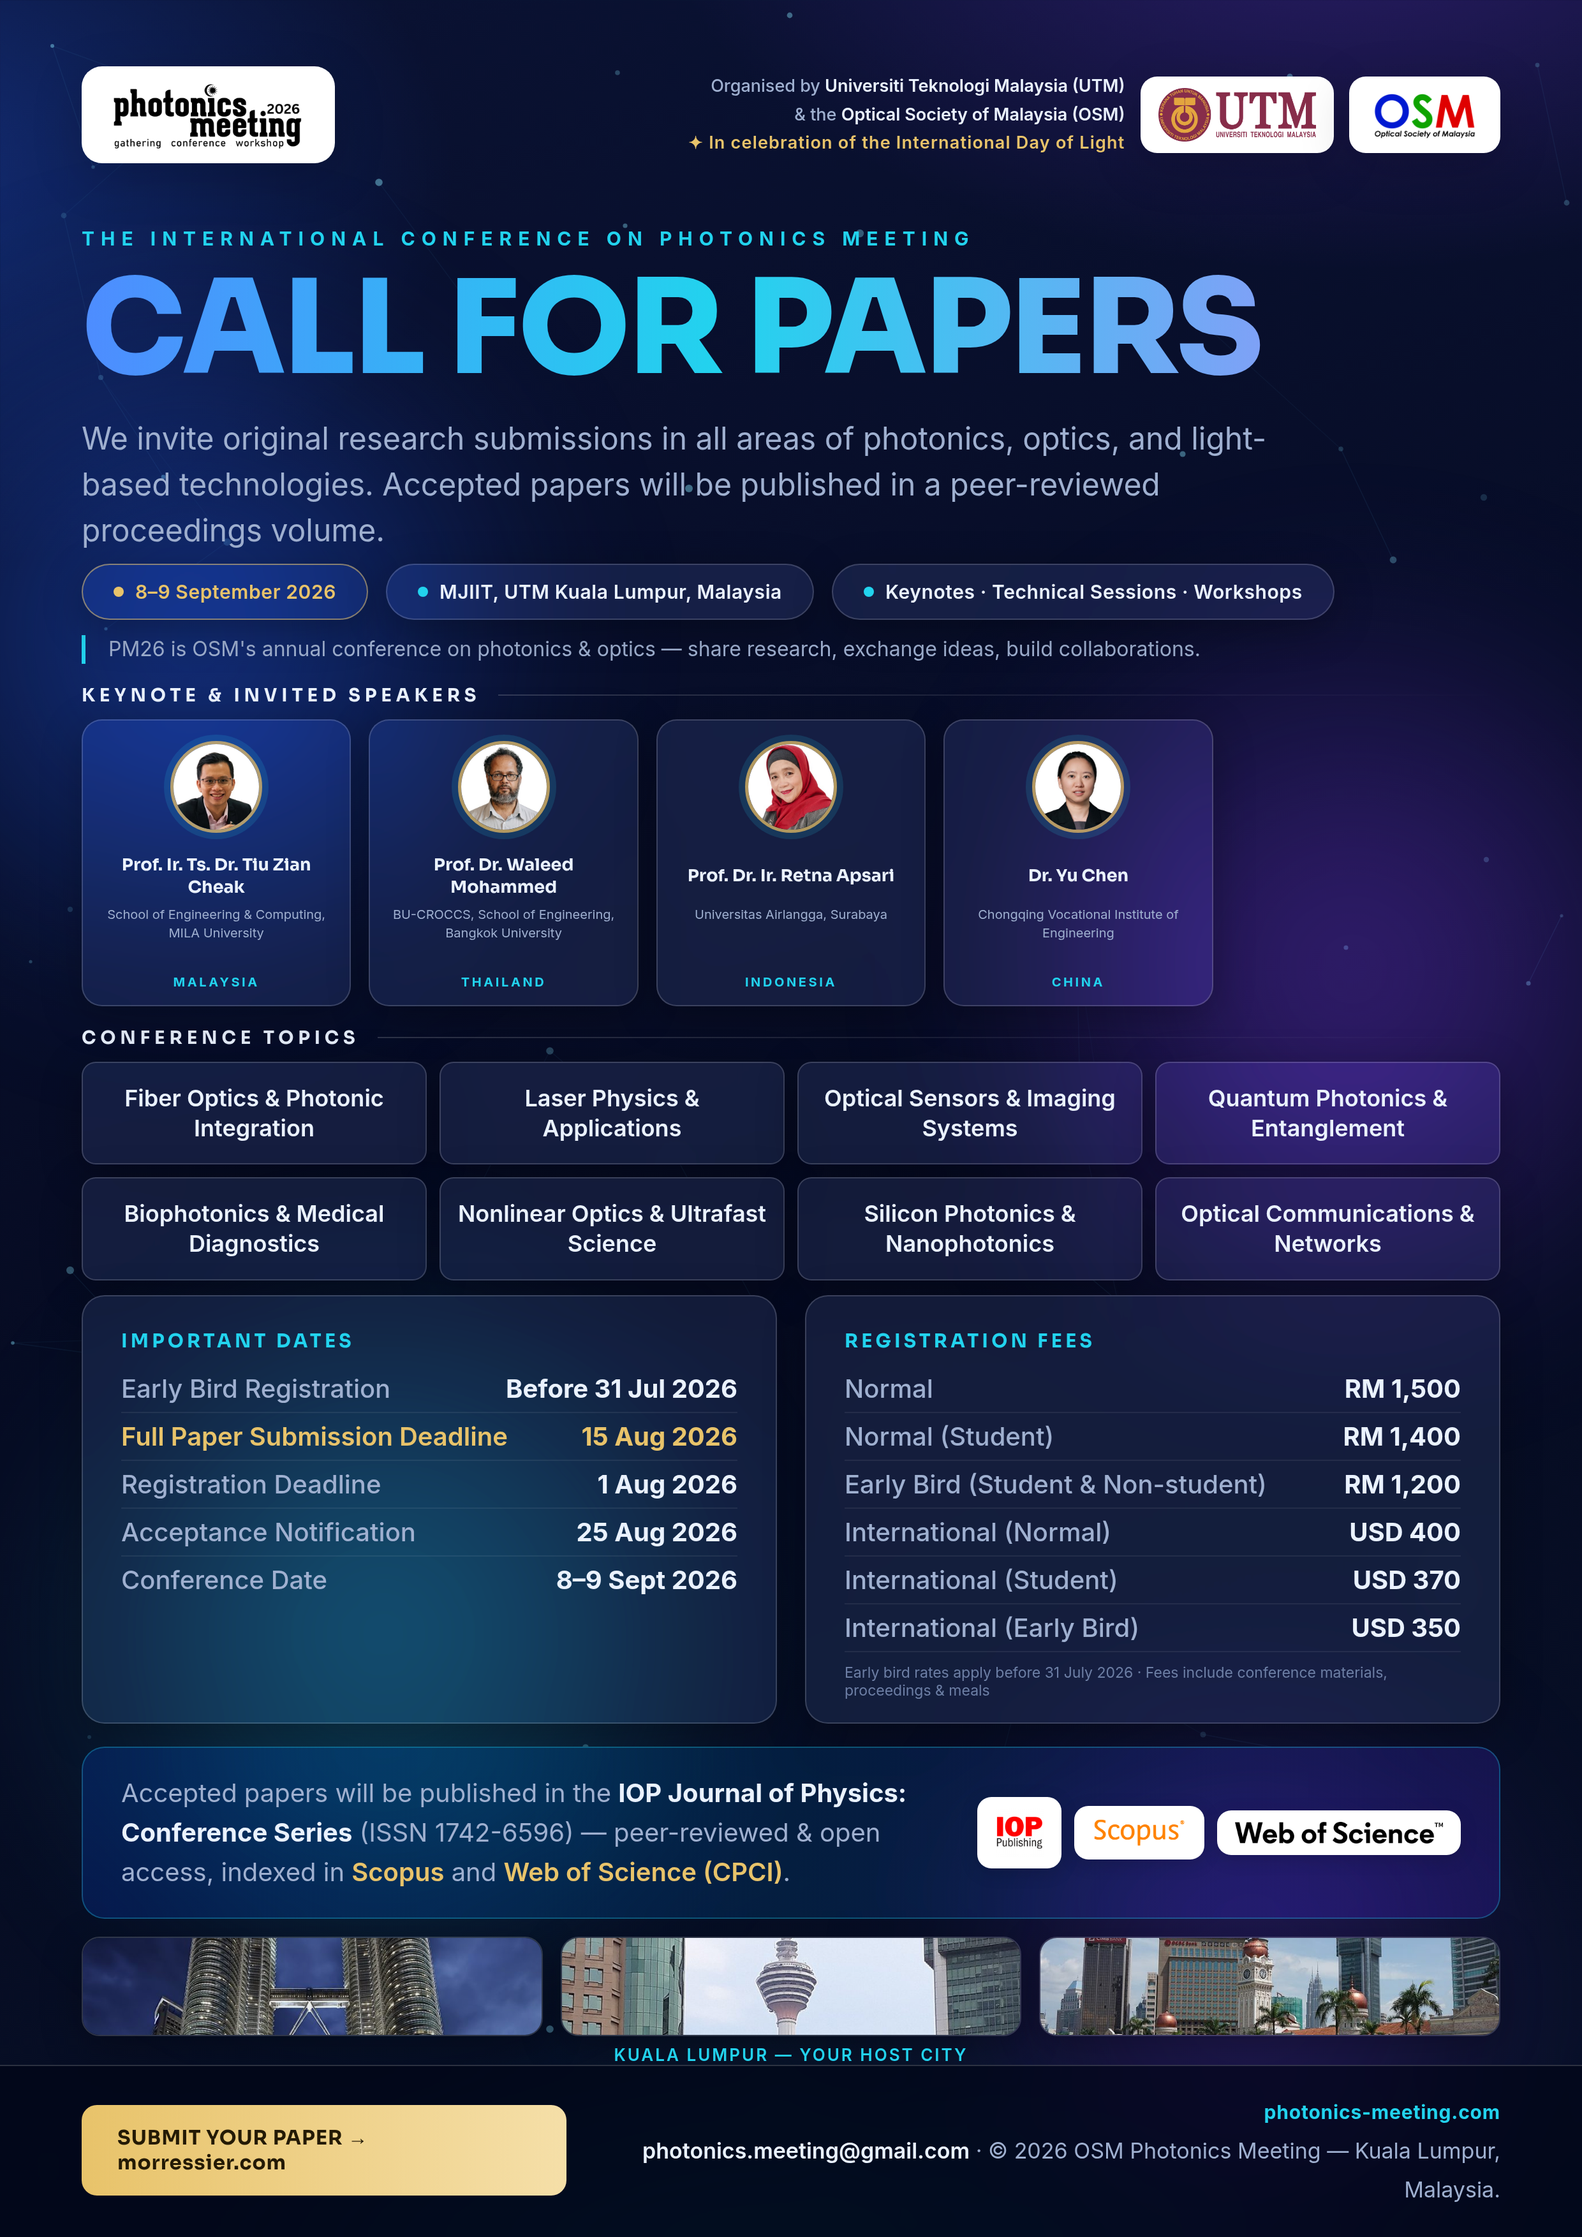
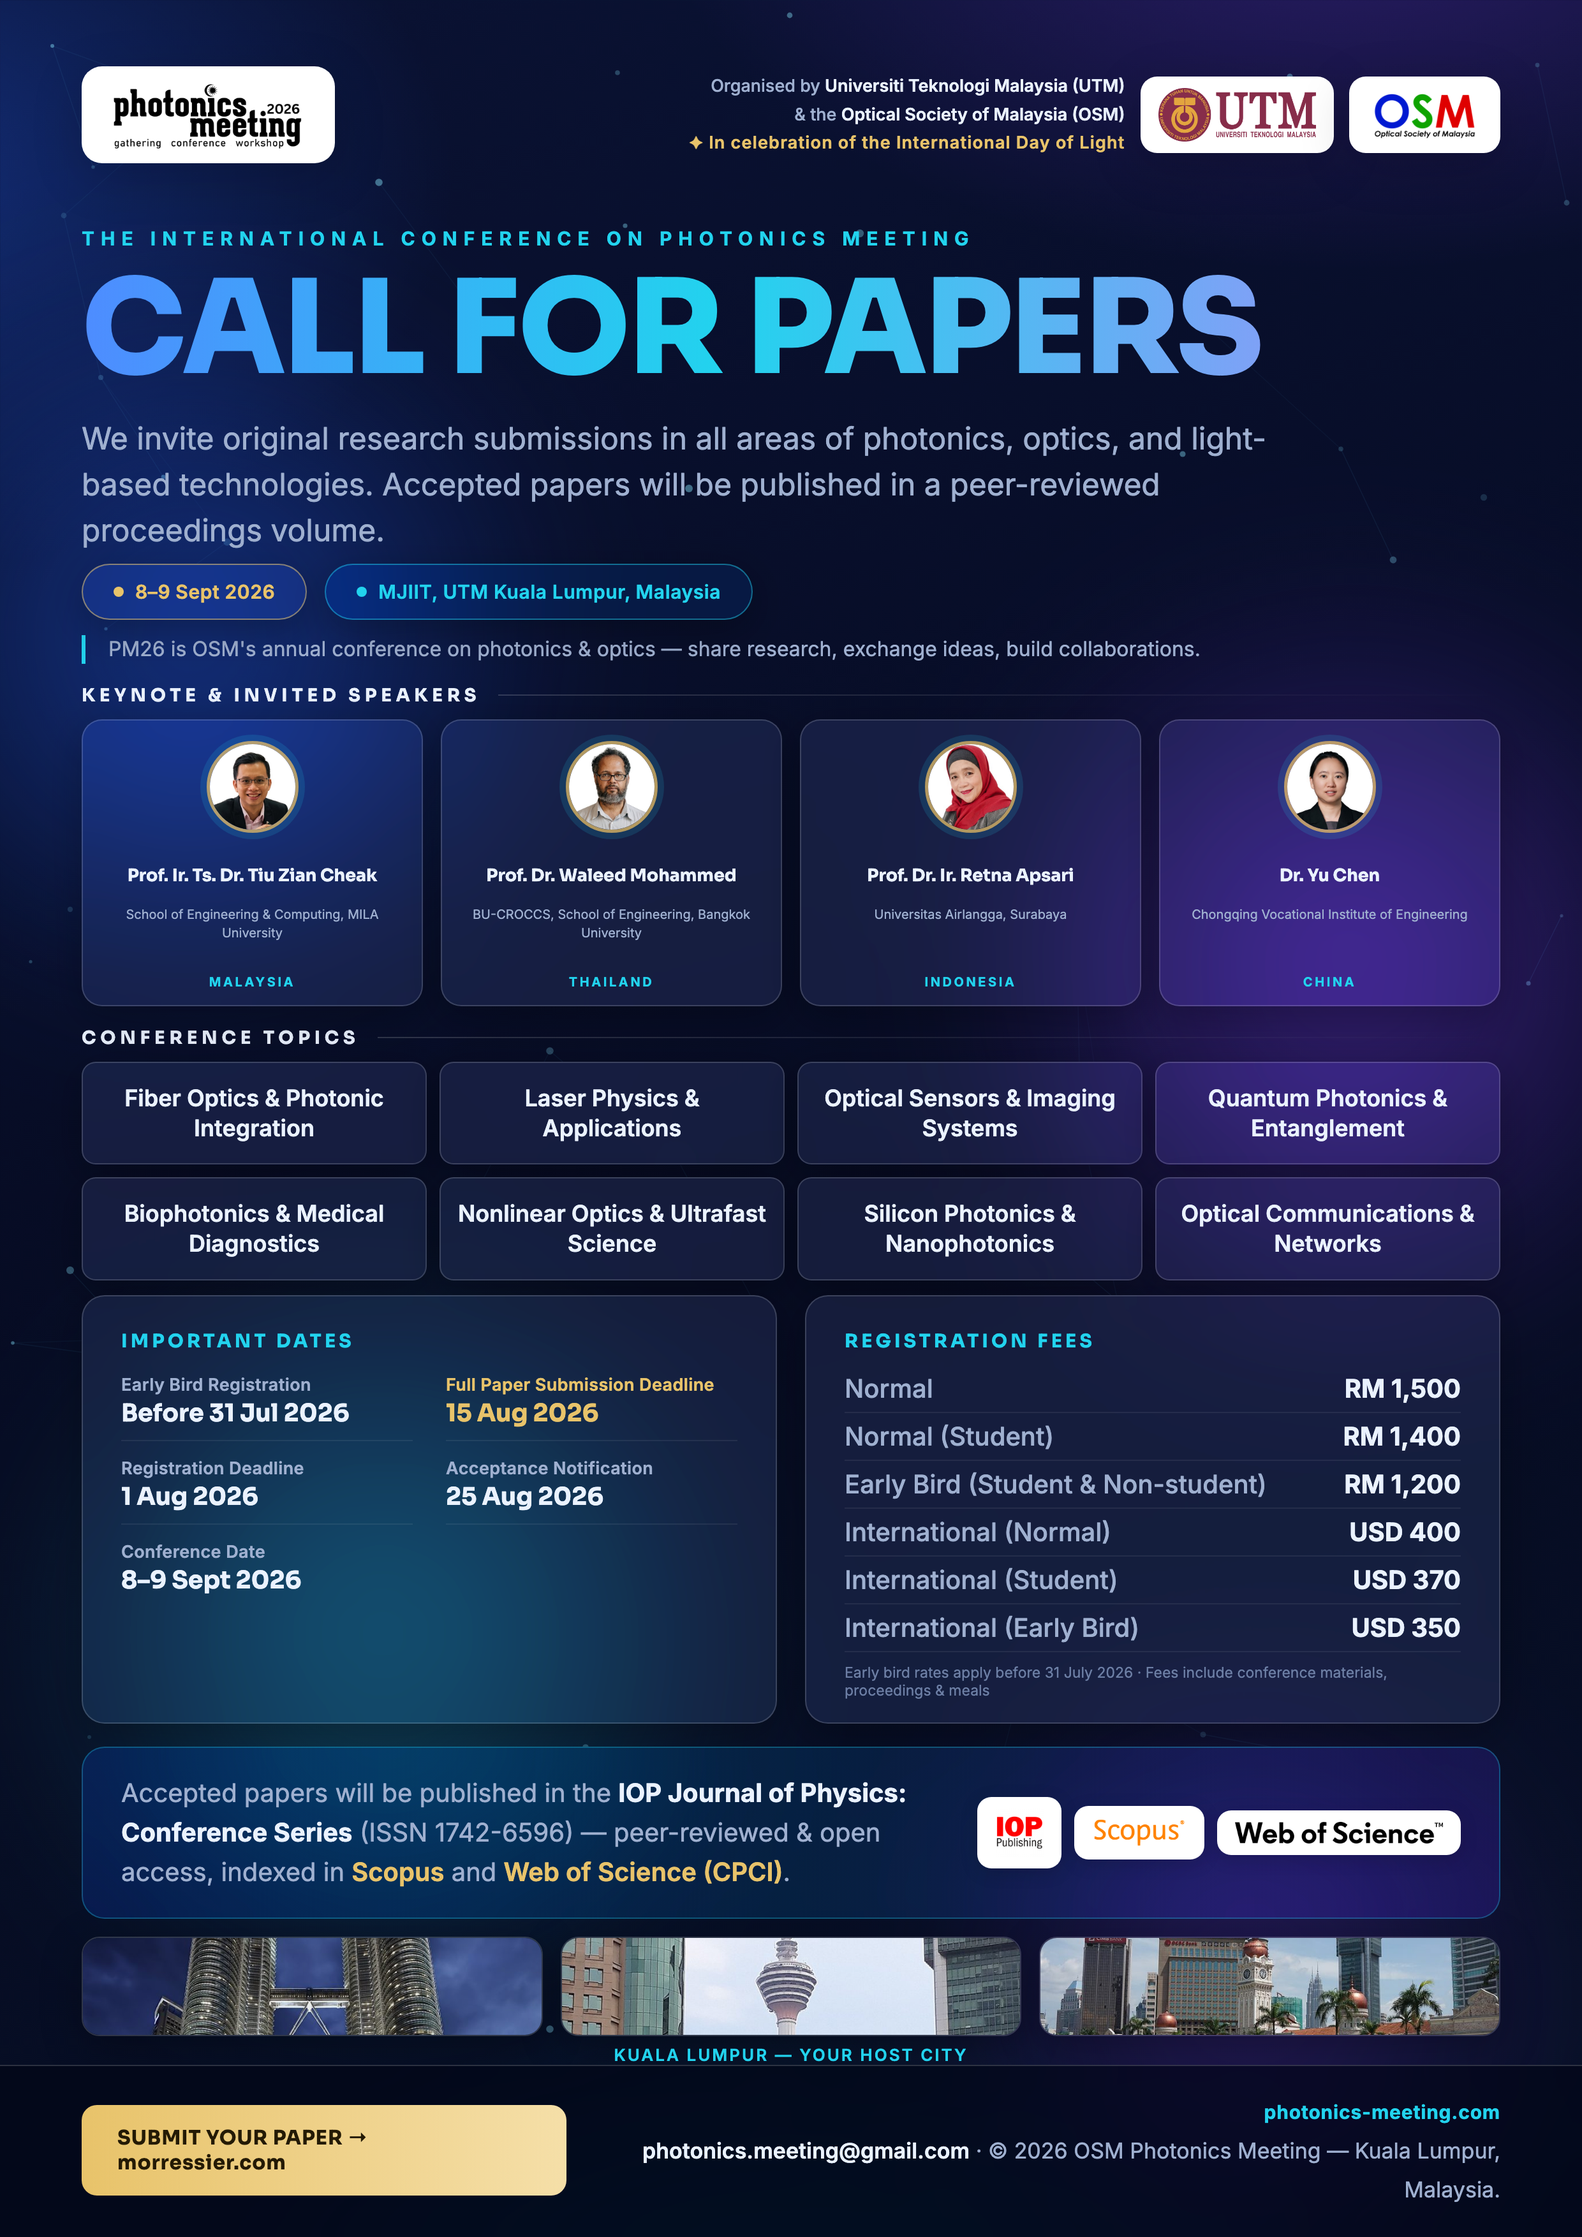
Poster: finish the compact-header + date-grid design (continues opencode WIP)
Completes the mid-thought edits started in opencode:
- Fix syntax error (stray leading space) on the date_rows line
- IMPORTANT DATES panel: 2-column date-grid, milestone label over bold
  date (mirrors the website's Key Deadlines cards); halves panel height
  to keep A4 fit with the enlarged fonts + KL city strip
- Pills finished: compact gold date pill + new cyan .pill.hot venue pill
  (per-theme hot_edge/hot_bg tokens); third pill removed as intended
- Speaker grid now data-driven (repeat(len(speakers),1fr)) — fixes the
  empty 5th column after the speaker list changed to 4 on the website

Changed region(s): [[0.0931, 0.3107, 0.9625, 0.4661], [0.0621, 0.5904, 0.4657, 0.7147], [0.1552, 0.2486, 0.8383, 0.2796]]

diff --git a/poster/pm26-cfp-poster-bright.html b/poster/pm26-cfp-poster-bright.html
@@ -38,6 +38,7 @@
     border-radius:999px; padding:12px 24px; font-size:15px; font-weight:600; letter-spacing:.3px;
     white-space:nowrap; box-shadow:0 8px 32px rgba(10,18,51,.12); }
   .pill.gold { border-color:rgba(168,120,24,.45); color:var(--gold); background:rgba(232,195,106,.14); }
+  .pill.hot { border-color:rgba(8,145,178,.40); color:var(--cyan); background:rgba(8,145,178,.07); }
   .dot { width:8px; height:8px; border-radius:50%; background:var(--cyan); }
   .pill.gold .dot { background:var(--gold); }
 
@@ -54,7 +55,7 @@
   .slab::after { content:''; flex:1; height:1px; background:linear-gradient(90deg,var(--edge),transparent); }
   .slab b { color:var(--ink); font-weight:700; }
 
-  .sps { display:grid; grid-template-columns:repeat(5,1fr); gap:14px; }
+  .sps { display:grid; grid-template-columns:repeat(4,1fr); gap:14px; }
   .sp { background:var(--card); border:1px solid var(--edge); border-radius:16px; padding:16px 10px 12px;
     text-align:center; box-shadow:0 8px 32px rgba(10,18,51,.12); }
   .sp img { width:72px; height:72px; border-radius:50%; object-fit:cover; object-position:top;
@@ -77,6 +78,10 @@
   .row { display:flex; justify-content:space-between; align-items:baseline; gap:12px;
     padding:6px 0; border-bottom:1px solid rgba(10,18,51,.08); font-size:20px; }
   .row:last-child { border-bottom:none; }
+  .date-grid { display:grid; grid-template-columns:1fr 1fr; gap:6px 26px; }
+  .date-grid .row { flex-direction:column; align-items:flex-start; gap:2px; padding:7px 0 9px; }
+  .date-grid .row-l { font-size:13.5px; font-weight:600; letter-spacing:.2px; }
+  .date-grid .row-r { font-family:'Sora'; font-size:19px; }
   .row-l { color:var(--dim); font-weight:500; }
   .row-r { font-weight:700; white-space:nowrap; }
   .row.hot .row-l, .row.hot .row-r { color:var(--gold); }
@@ -123,9 +128,8 @@
   <div class="sub">We invite original research submissions in all areas of photonics, optics, and light-based technologies. Accepted papers will be published in a peer-reviewed proceedings volume.</div>
 
   <div class="pills">
-    <div class="pill gold"><span class="dot"></span>8–9 September 2026</div>
-    <div class="pill"><span class="dot"></span>MJIIT, UTM Kuala Lumpur, Malaysia</div>
-    <div class="pill"><span class="dot"></span>Keynotes · Technical Sessions · Workshops</div>
+    <div class="pill gold"><span class="dot"></span>8–9 Sept 2026</div>
+    <div class="pill hot"><span class="dot"></span>MJIIT, UTM Kuala Lumpur, Malaysia</div>
   </div>
 
   <div class="about">PM26 is OSM&#x27;s annual conference on photonics &amp; optics — share research, exchange ideas, build collaborations.</div>
@@ -164,7 +168,7 @@
   <div class="cols">
     <div class="panel">
       <h3>IMPORTANT DATES</h3>
-      <div class="row"><span class="row-l">Early Bird Registration</span><span class="row-r">Before 31 Jul 2026</span></div><div class="row hot"><span class="row-l">Full Paper Submission Deadline</span><span class="row-r">15 Aug 2026</span></div><div class="row"><span class="row-l">Registration Deadline</span><span class="row-r">1 Aug 2026</span></div><div class="row"><span class="row-l">Acceptance Notification</span><span class="row-r">25 Aug 2026</span></div><div class="row"><span class="row-l">Conference Date</span><span class="row-r">8–9 Sept 2026</span></div>
+      <div class="date-grid"><div class="row"><span class="row-l">Early Bird Registration</span><span class="row-r">Before 31 Jul 2026</span></div><div class="row hot"><span class="row-l">Full Paper Submission Deadline</span><span class="row-r">15 Aug 2026</span></div><div class="row"><span class="row-l">Registration Deadline</span><span class="row-r">1 Aug 2026</span></div><div class="row"><span class="row-l">Acceptance Notification</span><span class="row-r">25 Aug 2026</span></div><div class="row"><span class="row-l">Conference Date</span><span class="row-r">8–9 Sept 2026</span></div></div>
     </div>
     <div class="panel">
       <h3>REGISTRATION FEES</h3>

diff --git a/poster/pm26-cfp-poster.html b/poster/pm26-cfp-poster.html
@@ -38,6 +38,7 @@
     border-radius:999px; padding:12px 24px; font-size:15px; font-weight:600; letter-spacing:.3px;
     white-space:nowrap; box-shadow:0 8px 32px rgba(0,0,0,.28); }
   .pill.gold { border-color:rgba(232,195,106,.55); color:var(--gold); background:rgba(232,195,106,.07); }
+  .pill.hot { border-color:rgba(34,211,238,.45); color:var(--cyan); background:rgba(34,211,238,.06); }
   .dot { width:8px; height:8px; border-radius:50%; background:var(--cyan); }
   .pill.gold .dot { background:var(--gold); }
 
@@ -54,7 +55,7 @@
   .slab::after { content:''; flex:1; height:1px; background:linear-gradient(90deg,var(--edge),transparent); }
   .slab b { color:var(--ink); font-weight:700; }
 
-  .sps { display:grid; grid-template-columns:repeat(5,1fr); gap:14px; }
+  .sps { display:grid; grid-template-columns:repeat(4,1fr); gap:14px; }
   .sp { background:var(--card); border:1px solid var(--edge); border-radius:16px; padding:16px 10px 12px;
     text-align:center; box-shadow:0 8px 32px rgba(0,0,0,.28); }
   .sp img { width:72px; height:72px; border-radius:50%; object-fit:cover; object-position:top;
@@ -77,6 +78,10 @@
   .row { display:flex; justify-content:space-between; align-items:baseline; gap:12px;
     padding:6px 0; border-bottom:1px solid rgba(255,255,255,.07); font-size:20px; }
   .row:last-child { border-bottom:none; }
+  .date-grid { display:grid; grid-template-columns:1fr 1fr; gap:6px 26px; }
+  .date-grid .row { flex-direction:column; align-items:flex-start; gap:2px; padding:7px 0 9px; }
+  .date-grid .row-l { font-size:13.5px; font-weight:600; letter-spacing:.2px; }
+  .date-grid .row-r { font-family:'Sora'; font-size:19px; }
   .row-l { color:var(--dim); font-weight:500; }
   .row-r { font-weight:700; white-space:nowrap; }
   .row.hot .row-l, .row.hot .row-r { color:var(--gold); }
@@ -123,9 +128,8 @@
   <div class="sub">We invite original research submissions in all areas of photonics, optics, and light-based technologies. Accepted papers will be published in a peer-reviewed proceedings volume.</div>
 
   <div class="pills">
-    <div class="pill gold"><span class="dot"></span>8–9 September 2026</div>
-    <div class="pill"><span class="dot"></span>MJIIT, UTM Kuala Lumpur, Malaysia</div>
-    <div class="pill"><span class="dot"></span>Keynotes · Technical Sessions · Workshops</div>
+    <div class="pill gold"><span class="dot"></span>8–9 Sept 2026</div>
+    <div class="pill hot"><span class="dot"></span>MJIIT, UTM Kuala Lumpur, Malaysia</div>
   </div>
 
   <div class="about">PM26 is OSM&#x27;s annual conference on photonics &amp; optics — share research, exchange ideas, build collaborations.</div>
@@ -164,7 +168,7 @@
   <div class="cols">
     <div class="panel">
       <h3>IMPORTANT DATES</h3>
-      <div class="row"><span class="row-l">Early Bird Registration</span><span class="row-r">Before 31 Jul 2026</span></div><div class="row hot"><span class="row-l">Full Paper Submission Deadline</span><span class="row-r">15 Aug 2026</span></div><div class="row"><span class="row-l">Registration Deadline</span><span class="row-r">1 Aug 2026</span></div><div class="row"><span class="row-l">Acceptance Notification</span><span class="row-r">25 Aug 2026</span></div><div class="row"><span class="row-l">Conference Date</span><span class="row-r">8–9 Sept 2026</span></div>
+      <div class="date-grid"><div class="row"><span class="row-l">Early Bird Registration</span><span class="row-r">Before 31 Jul 2026</span></div><div class="row hot"><span class="row-l">Full Paper Submission Deadline</span><span class="row-r">15 Aug 2026</span></div><div class="row"><span class="row-l">Registration Deadline</span><span class="row-r">1 Aug 2026</span></div><div class="row"><span class="row-l">Acceptance Notification</span><span class="row-r">25 Aug 2026</span></div><div class="row"><span class="row-l">Conference Date</span><span class="row-r">8–9 Sept 2026</span></div></div>
     </div>
     <div class="panel">
       <h3>REGISTRATION FEES</h3>

diff --git a/poster/make_poster.py b/poster/make_poster.py
@@ -48,6 +48,7 @@ THEMES = {
         ink="#EAF2FF", dim="#9FB0D0", dimmer="#6D7FA5",
         card="rgba(255,255,255,.07)", edge="rgba(255,255,255,.17)",
         gold="#E8C36A", gold_edge="rgba(232,195,106,.55)", gold_bg="rgba(232,195,106,.07)",
+        hot_edge="rgba(34,211,238,.45)", hot_bg="rgba(34,211,238,.06)",
         spectrum="linear-gradient(90deg,#4E8CFF 0%,#22D3EE 45%,#A78BFA 100%)",
         cyan="#22D3EE", rowline="rgba(255,255,255,.07)",
         net_dot="#7FD8F0", net_line="#4FA8D8", net_dot_op=(0.15, 0.5), net_line_base=0.16,
@@ -70,6 +71,7 @@ THEMES = {
         ink="#0B1230", dim="#475569", dimmer="#94A3B8",
         card="rgba(255,255,255,.52)", edge="rgba(255,255,255,.95)",
         gold="#A87818", gold_edge="rgba(168,120,24,.45)", gold_bg="rgba(232,195,106,.14)",
+        hot_edge="rgba(8,145,178,.40)", hot_bg="rgba(8,145,178,.07)",
         spectrum="linear-gradient(90deg,#2057E0 0%,#0891B2 45%,#7C3AED 100%)",
         cyan="#0891B2", rowline="rgba(10,18,51,.08)",
         net_dot="#2057E0", net_line="#2057E0", net_dot_op=(0.08, 0.25), net_line_base=0.09,
@@ -120,9 +122,9 @@ for s in data["speakers"]:
 
 topic_chips = "".join(f'<div class="chip">{H.escape(t.strip())}</div>' for t in content["cfp_topics"].split("|"))
 
-date_rows = "".join(
+date_rows = '<div class="date-grid">' + "".join(
     f'''<div class="row{' hot' if 'Paper' in d["milestone"] else ''}"><span class="row-l">{H.escape(d["milestone"])}</span><span class="row-r">{H.escape(d["date"])}</span></div>'''
-    for d in data["dates"])
+    for d in data["dates"]) + '</div>'
 
 fee_rows = "".join(
     f'''<div class="row"><span class="row-l">{H.escape(f["category"])}</span><span class="row-r">{H.escape(f["fee"])}</span></div>'''
@@ -170,6 +172,7 @@ def render(T):
     border-radius:999px; padding:12px 24px; font-size:15px; font-weight:600; letter-spacing:.3px;
     white-space:nowrap; box-shadow:{T["chip_shadow"]}; }}
   .pill.gold {{ border-color:{T["gold_edge"]}; color:var(--gold); background:{T["gold_bg"]}; }}
+  .pill.hot {{ border-color:{T["hot_edge"]}; color:var(--cyan); background:{T["hot_bg"]}; }}
   .dot {{ width:8px; height:8px; border-radius:50%; background:var(--cyan); }}
   .pill.gold .dot {{ background:var(--gold); }}
 
@@ -186,7 +189,7 @@ def render(T):
   .slab::after {{ content:''; flex:1; height:1px; background:linear-gradient(90deg,var(--edge),transparent); }}
   .slab b {{ color:var(--ink); font-weight:700; }}
 
-  .sps {{ display:grid; grid-template-columns:repeat(5,1fr); gap:14px; }}
+  .sps {{ display:grid; grid-template-columns:repeat({max(len(data['speakers']), 1)},1fr); gap:14px; }}
   .sp {{ background:var(--card); border:1px solid var(--edge); border-radius:16px; padding:16px 10px 12px;
     text-align:center; box-shadow:{T["chip_shadow"]}; }}
   .sp img {{ width:72px; height:72px; border-radius:50%; object-fit:cover; object-position:top;
@@ -209,6 +212,10 @@ def render(T):
   .row {{ display:flex; justify-content:space-between; align-items:baseline; gap:12px;
     padding:6px 0; border-bottom:1px solid {T["rowline"]}; font-size:20px; }}
   .row:last-child {{ border-bottom:none; }}
+  .date-grid {{ display:grid; grid-template-columns:1fr 1fr; gap:6px 26px; }}
+  .date-grid .row {{ flex-direction:column; align-items:flex-start; gap:2px; padding:7px 0 9px; }}
+  .date-grid .row-l {{ font-size:13.5px; font-weight:600; letter-spacing:.2px; }}
+  .date-grid .row-r {{ font-family:'Sora'; font-size:19px; }}
   .row-l {{ color:var(--dim); font-weight:500; }}
   .row-r {{ font-weight:700; white-space:nowrap; }}
   .row.hot .row-l, .row.hot .row-r {{ color:var(--gold); }}
@@ -255,9 +262,8 @@ def render(T):
   <div class="sub">{H.escape(content["cfp_sub"])}</div>
 
   <div class="pills">
-    <div class="pill gold"><span class="dot"></span>8–9 September 2026</div>
-    <div class="pill"><span class="dot"></span>MJIIT, UTM Kuala Lumpur, Malaysia</div>
-    <div class="pill"><span class="dot"></span>Keynotes · Technical Sessions · Workshops</div>
+    <div class="pill gold"><span class="dot"></span>8–9 Sept 2026</div>
+    <div class="pill hot"><span class="dot"></span>MJIIT, UTM Kuala Lumpur, Malaysia</div>
   </div>
 
   <div class="about">{H.escape(about_text)}</div>
